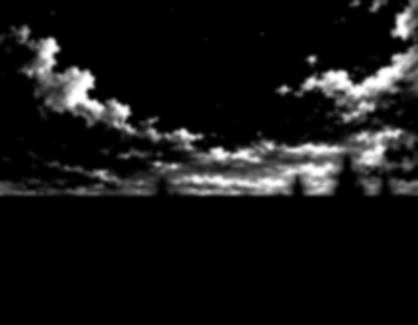
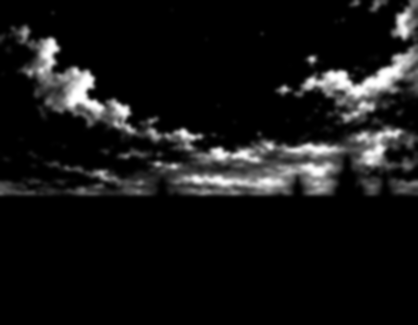
Filmvalet: molnen tre gånger snabbare
Formen böljar på några sekunder och molnen driver 10–25 px i sekunden (förut några
px i sekunden, vilket ögat inte uppfattade). Skyddszonen runt galax, måne och hus 80 px.

diff --git a/public/index.html b/public/index.html
@@ -612,15 +612,16 @@
         kalla.x -= w * hojd * hojd * sving * 2.4;
         kalla.y = mix(px.y, BAS - (BAS - px.y) / (1. + strack), w);
       }
-      // Molnen (bara filmvalet): böljar i ett mjukt flöde som byter form på ungefär tio
-      // sekunder och driver fram och tillbaka i sidled, upp till ~45 px. Svagare syntes knappt
-      // (Rickard 2026-09-23). Masken tonar ut 60 px från galaxen, månen och husen.
+      // Molnen (bara filmvalet): böljar i ett mjukt flöde som byter form på några sekunder och
+      // driver fram och tillbaka i sidled, upp till ~65 px, 10–25 px i sekunden. Långsammare
+      // än så uppfattade ögat inte som rörelse alls (Rickard 2026-09-23, två gånger).
+      // Masken tonar ut 80 px från galaxen, månen och husen.
       if (uHarMoln > .5) {
         float moln = texture(uMoln, vUv).r;
         if (moln > .004) {
           vec2 q = px * .0035;
-          vec2 flode = vec2(brus2(q + vec2(uT * .09, 0.)) - .5, brus2(q + vec2(7.3, uT * .075)) - .5);
-          kalla += (flode * vec2(60., 36.) + vec2(sin(uT * .16) * 16., 0.)) * moln;
+          vec2 flode = vec2(brus2(q + vec2(uT * .25, 0.)) - .5, brus2(q + vec2(7.3, uT * .21)) - .5);
+          kalla += (flode * vec2(60., 36.) + vec2(sin(uT * .35) * 22. + sin(uT * .13) * 14., 0.)) * moln;
         }
       }
       // Vattnet: tre våglängder som går åt olika håll, mest i sidled, plus en lång dyning.
@@ -732,7 +733,7 @@
     addEventListener("resize", () => { if (redo) mat(); });
   };
   levandeMalning({ vy: $("vy-intro"), duk: $("levande"), img: $("vy-intro").querySelector(".fond"), mask: "omslag/intro-glimt.png?v=4fd9ee1e", laga: true });
-  levandeMalning({ vy: $("vy-valj"), duk: $("valj-levande"), img: $("vy-valj").querySelector(".fond"), mask: "omslag/valj-glimt.png?v=c0d9e14d", moln: "omslag/valj-moln.png?v=6853e573", fastTopp: true });
+  levandeMalning({ vy: $("vy-valj"), duk: $("valj-levande"), img: $("vy-valj").querySelector(".fond"), mask: "omslag/valj-glimt.png?v=c0d9e14d", moln: "omslag/valj-moln.png?v=d5cee35b", fastTopp: true });
 
   // ── Tidslinjen ────────────────────────────────────────
   const spar = $("spar"), tidslinje = $("tidslinje");

diff --git a/verktyg/hitta-valj.py b/verktyg/hitta-valj.py
@@ -52,14 +52,14 @@ F_MAX_ANTAL = 320
 VÄXT = 2
 
 # Molnen: ljusa, mjuka partier pa himlen. Galaxen och manen ar ocksa ljusa och far inte
-# flyta med, och inte heller husen: molnen forskjuts upp till ~45 px, sa masken tonas ut
-# pa 60 px fran dem. Galaxen ar en sned ellips, uppmatt i 1672x1300.
+# flyta med, och inte heller husen: molnen forskjuts upp till ~65 px, sa masken tonas ut
+# pa 80 px fran dem. Galaxen ar en sned ellips, uppmatt i 1672x1300.
 GALAX = (650, 185, 265, 90, 39)        # mitt x, mitt y, halvaxlar, vinkel i grader
 GALAX_LITEN = (560, 285, 30)          # den lilla galaxen nedanfor
 MANE = (1470, 150, 70)
 MOLN_TRÖSKEL = (72, 110)              # ljushet i en suddad kopia: himmel ~45, moln 90-180
 HUS_MÖRK = 38                         # husen i staden ar morkare an sa
-MOLN_FRI = 60                         # sa langt fran galax, mane och hus borjar molnen rora sig
+MOLN_FRI = 80                         # sa langt fran galax, mane och hus borjar molnen rora sig
 
 # Flodens kontur i 1672x1300, uppmatt i bilden.
 FLOD = [(0, 893), (540, 893), (590, 950), (660, 1010), (705, 1080), (705, 1135),
